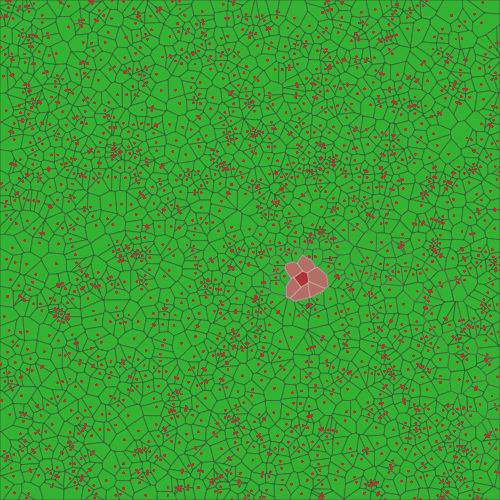
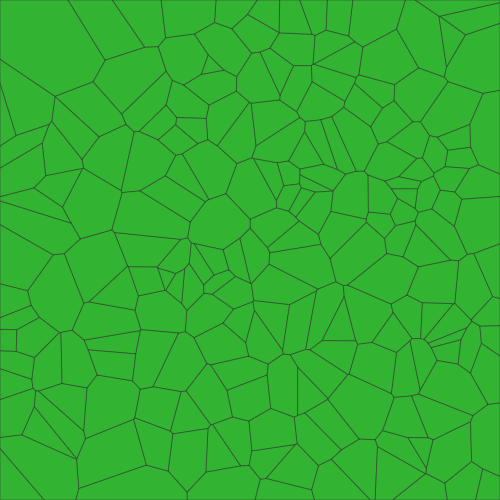
README updates to publish voronoi-4

diff --git a/README.md b/README.md
@@ -5,9 +5,9 @@ Collection of personal coding projects. They may or may not grow into individual
 
 ## Latest
 
-A p5.js sketch that demonstrates computing the closest point on a line, from a given point.
+A p5.js sketch that explores rendering support for d3-delaunay computed voronoi diagrams.
 
-[<img src="./p5js/common/examples/shapes-tangents-between-circles/screenshot-01.png" alt="tangents-between-circles" width="150px" />][link-p5js-shapes-tangents-between-circles]
+[<img src="./p5js/common/examples/voronoi-4/screenshot-01.png" alt="voronoi diagrams via d3-delaunay vs gorhill" width="150px" />][link-p5js-voronoi-4]
 
 ## LÖVE
 Collection of sketches using the [LÖVE][love2d] environment.
@@ -36,6 +36,8 @@ Collection of sketches using the [p5.js][p5js] Javascript library.
 [<img src="./p5js/common/examples/teardrops/screenshot-01.png" alt="teardrops" width="150px" />][link-p5js-teardrops]
 [<img src="./p5js/common/examples/voronoi/screenshot-01.png" alt="voronoi" width="150px" />][link-p5js-voronoi]
 [<img src="./p5js/common/examples/voronoi-2/screenshot-01.png" alt="voronoi second sketch" width="150px" />][link-p5js-voronoi-2]
+[<img src="./p5js/common/examples/voronoi-3/screenshot-01.png" alt="voronoi second sketch" width="150px" />][link-p5js-voronoi-3]
+[<img src="./p5js/common/examples/voronoi-4/screenshot-01.png" alt="voronoi second sketch" width="150px" />][link-p5js-voronoi-4]
 [<img src="./p5js/ecosystem/screenshot-01.png" alt="ecosystem" width="150px" />][link-p5js-ecosystem]
 [<img src="./p5js/forest-01/screenshot-01.png" alt="forest-01" width="150px" />][link-p5js-forest-01]
 [<img src="./p5js/forest-fires-02/screenshot-01.png" alt="forest-fires-02" width="150px" />][link-p5js-forest-fires-02]
@@ -134,6 +136,8 @@ Collection of sketches using the [Processing (P3)][processing] environment.
 [link-p5js-shapes-tangents-between-circles]: https://github.com/brianhonohan/sketchbook/tree/master/p5js/common/examples/shapes-tangents-between-circles/
 [link-p5js-voronoi]: https://github.com/brianhonohan/sketchbook/tree/master/p5js/common/examples/voronoi/
 [link-p5js-voronoi-2]: https://github.com/brianhonohan/sketchbook/tree/master/p5js/common/examples/voronoi-2/
+[link-p5js-voronoi-3]: https://github.com/brianhonohan/sketchbook/tree/master/p5js/common/examples/voronoi-3/
+[link-p5js-voronoi-4]: https://github.com/brianhonohan/sketchbook/tree/master/p5js/common/examples/voronoi-4/
 [link-p5js-random-1]: https://github.com/brianhonohan/sketchbook/tree/master/p5js/random/1/
 [link-p5js-random-2]: https://github.com/brianhonohan/sketchbook/tree/master/p5js/random/2/
 [link-p5js-random-3]: https://github.com/brianhonohan/sketchbook/tree/master/p5js/random/3/

diff --git a/p5js/common/examples/voronoi-4/README.md b/p5js/common/examples/voronoi-4/README.md
@@ -3,6 +3,12 @@
 
 This is a [p5.js][p5js-home] sketch to explore some using the d3-delauney library to generate the voronoi diagram.
 
+Wanted to compare this approach to prior approach used by p5.voronoi.js using gorhill implementaiton of voronoi diagrams.
+
+And further compare the developer experience working wiht the two libraries.
+
+In short, the two libraries are comparable in performance on rendering as it relates to adpating to the p5.js drawing context. I did not test/benchmark delaunay/voronoi computation. And generally found the gorhill-implementation more readily available for extension for my uses (at this time).
+
 Of note, used [Chrome Performance Tools][chrome-perf-tools] to do some perfromance profiling and fine tuning.
 
 ## Controls
@@ -16,6 +22,7 @@ Touch
 # References:
 * [d3-delaunay][d3-delaunay] - d3 library to generate Delaunay triangulation, as a basis for Voronoi diagram.
 * [delaunator][delaunator] - The underlying library used by d3-delaunay to construction the Delaunay triangualtion. 
+* [Coding Training - Challenge 181][coding-train-cc181] - Video that goes through use of d3-delaunay in the context of p5.js
 * [p5.voronoi.js][p5_voronoi] - The main p5.js extension that enables drawing of of a Voronoi diagram.
 * [gorhill-voronoi][gorhill-voronoi] - The primary underlying implementation of the Voronoi algorithm in Javascript.
 * [Chrome Performance Tools][chrome-perf-tools]
@@ -39,3 +46,4 @@ Touch
 [chrome-perf-tools]: https://developer.chrome.com/docs/devtools/performance
 [d3-delaunay]: https://d3js.org/d3-delaunay
 [delaunator]: https://mapbox.github.io/delaunator/
+[coding-train-cc181]: https://www.youtube.com/watch?v=Bxdt6T_1qgc&t=546s&ab_channel=TheCodingTrain
